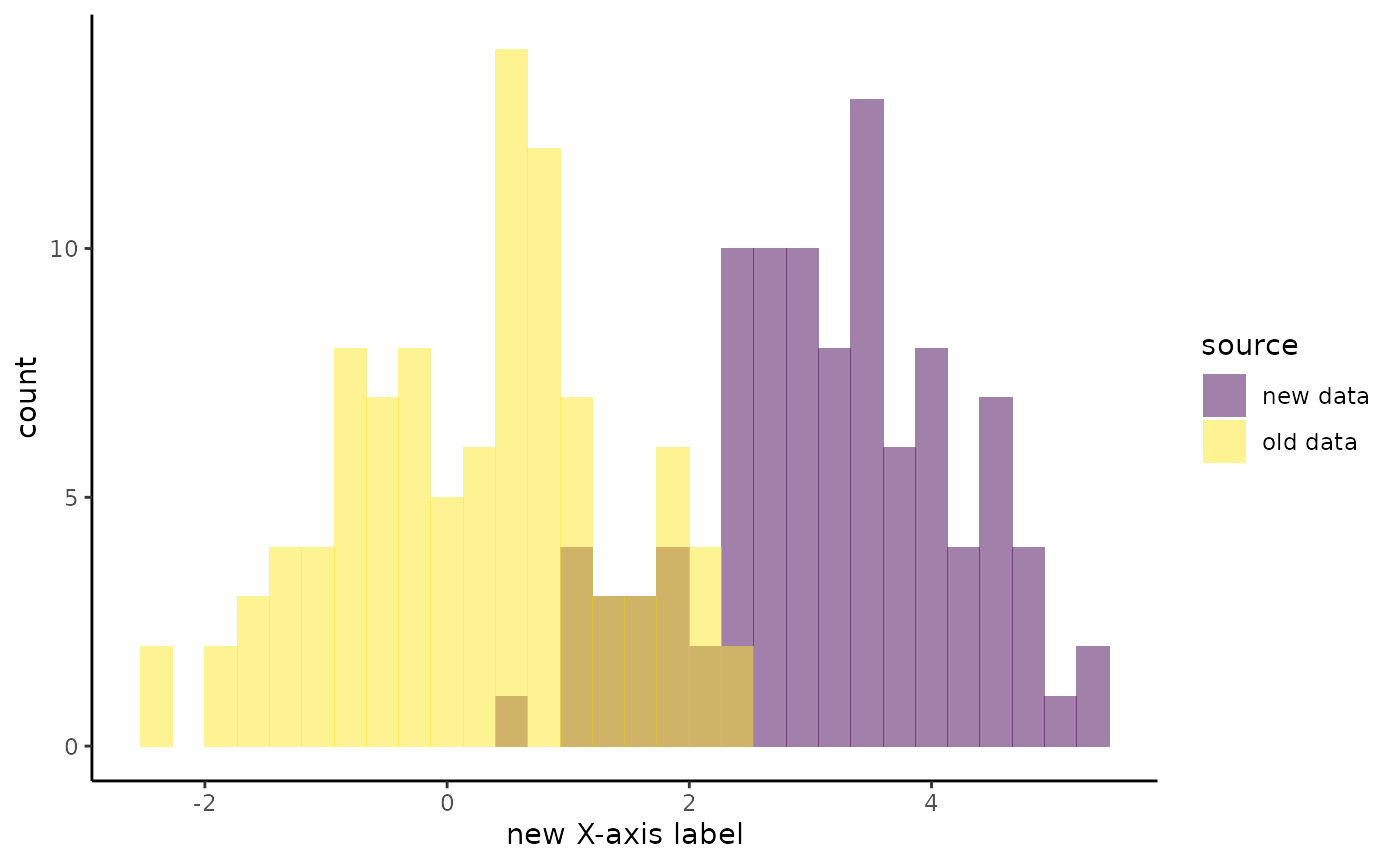
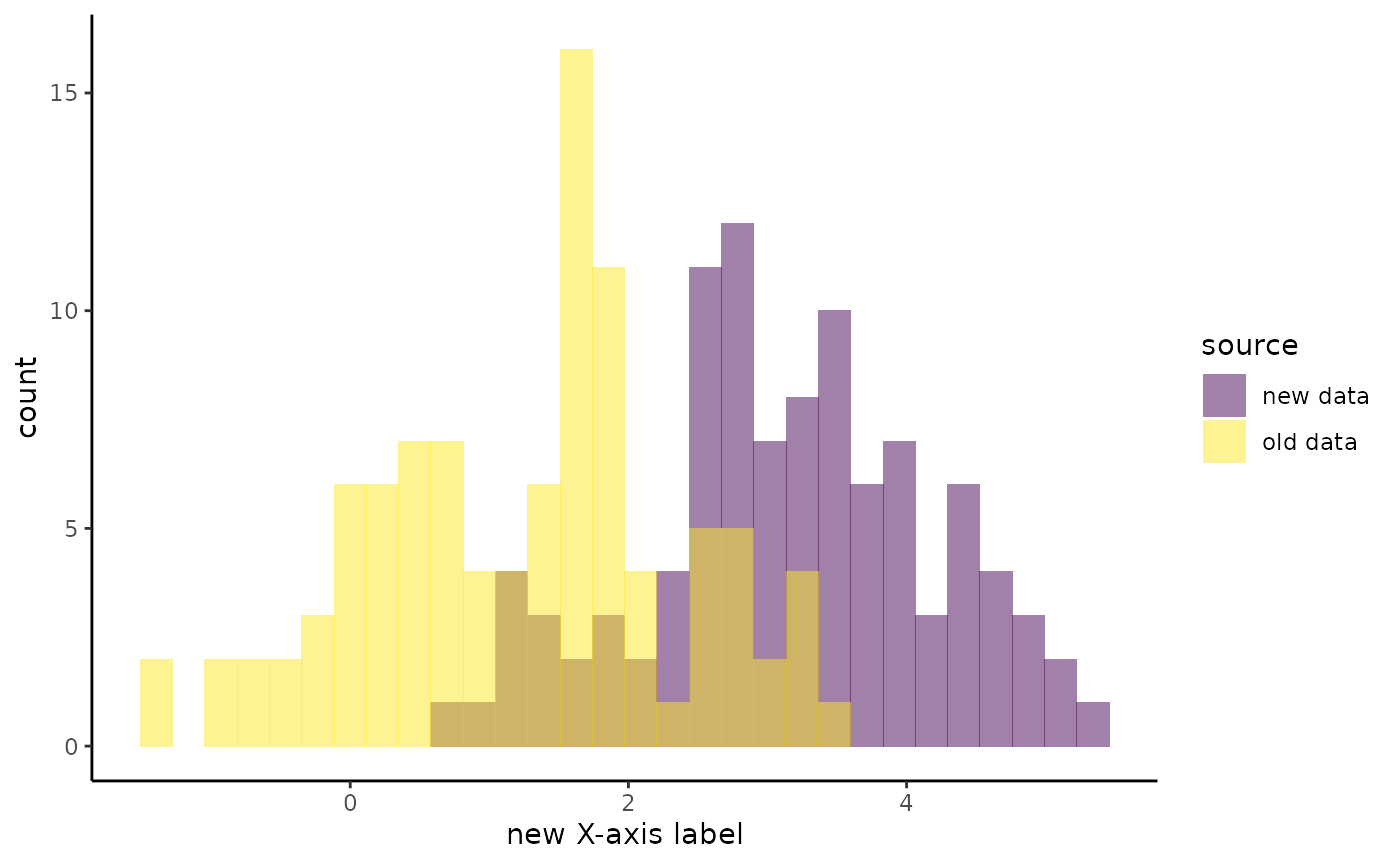
rebuild website

diff --git a/docs/articles/02-building-plots.html b/docs/articles/02-building-plots.html
@@ -86,7 +86,7 @@
     <div class="page-header toc-ignore">
       <h1 data-toc-skip>Creating plots</h1>
             
-            <h4 class="date">2020-11-24</h4>
+            <h4 class="date">2020-11-26</h4>
       
       
       <div class="hidden name"><code>02-building-plots.Rmd</code></div>
@@ -115,7 +115,7 @@
 <span class="fu"><a href="https://rdrr.io/r/utils/str.html">str</a></span><span class="op">(</span><span class="va">my_data</span><span class="op">)</span></pre></div>
 <pre><code>## tibble [200 × 10] (S3: tbl_df/tbl/data.frame)
 ##  $ source: chr [1:200] "old data" "old data" "old data" "old data" ...
-##  $ norm  : num [1:200] 0.586 0.709 -0.109 -0.453 0.606 ...
+##  $ norm  : num [1:200] 1.586 1.709 0.891 0.547 1.606 ...
 ##  $ exp   : num [1:200] 0.1772 0.0858 0.3273 0.5311 2.5615 ...
 ##  $ chisq : num [1:200] 4.53 6.54 4.92 3.55 2.71 ...
 ##  $ lnorm : num [1:200] 1.024 0.619 1.016 4.919 1.054 ...
@@ -185,15 +185,15 @@
 <div class="sourceCode" id="cb3"><pre class="downlit">
 <span class="va">my_histograms</span> <span class="op">&lt;-</span> <span class="fu"><a href="../reference/build_plots.html">build_plots</a></span><span class="op">(</span><span class="va">my_data</span>, <span class="va">flyover_histogram</span>, group_var <span class="op">=</span> <span class="st">"source"</span><span class="op">)</span>
 <span class="va">my_histograms</span></pre></div>
-<pre><code>## # A tibble: 5 x 2
-##   variable plot        
-##   &lt;chr&gt;    &lt;named list&gt;
-## 1 norm     &lt;gg&gt;        
-## 2 exp      &lt;gg&gt;        
-## 3 chisq    &lt;gg&gt;        
-## 4 lnorm    &lt;gg&gt;        
-## 5 gamma    &lt;gg&gt;</code></pre>
-<p>Notice that the output is a tibble containing one plot for each relevant variable (relevant in the sense that they are numeric). The function does not print the plots directly at this stage. However, the individual plots can still be accessed:</p>
+<pre><code>## # A tibble: 5 x 3
+##   variable plot         cogs            
+##   &lt;chr&gt;    &lt;named list&gt; &lt;named list&gt;    
+## 1 norm     &lt;gg&gt;         &lt;tibble [1 × 6]&gt;
+## 2 exp      &lt;gg&gt;         &lt;tibble [1 × 6]&gt;
+## 3 chisq    &lt;gg&gt;         &lt;tibble [1 × 6]&gt;
+## 4 lnorm    &lt;gg&gt;         &lt;tibble [1 × 6]&gt;
+## 5 gamma    &lt;gg&gt;         &lt;tibble [1 × 6]&gt;</code></pre>
+<p>Notice that the output is a tibble having column <code>plot</code> which contains one plot for each numeric variable in the data. (See below for a discussion on the <code>cogs</code> columns.) The function does not print the plots directly at this stage. However, the individual plots can still be accessed:</p>
 <div class="sourceCode" id="cb5"><pre class="downlit">
 <span class="va">my_histograms</span><span class="op">$</span><span class="va">plot</span><span class="op">[[</span><span class="fl">1</span><span class="op">]</span><span class="op">]</span></pre></div>
 <p><img src="02-building-plots_files/figure-html/print-hist-1.png" width="700"></p>
@@ -214,18 +214,41 @@
 <div class="sourceCode" id="cb7"><pre class="downlit">
 <span class="va">my_bars</span> <span class="op">&lt;-</span> <span class="fu"><a href="../reference/build_plots.html">build_plots</a></span><span class="op">(</span><span class="va">my_data</span>, <span class="va">flyover_bar_fill</span>, group_var <span class="op">=</span> <span class="st">"source"</span><span class="op">)</span>
 <span class="va">my_bars</span></pre></div>
-<pre><code>## # A tibble: 4 x 2
-##   variable plot        
-##   &lt;chr&gt;    &lt;named list&gt;
-## 1 alpha    &lt;gg&gt;        
-## 2 hilo     &lt;gg&gt;        
-## 3 tf       &lt;gg&gt;        
-## 4 fruit    &lt;gg&gt;</code></pre>
+<pre><code>## # A tibble: 4 x 3
+##   variable plot         cogs            
+##   &lt;chr&gt;    &lt;named list&gt; &lt;named list&gt;    
+## 1 alpha    &lt;gg&gt;         &lt;tibble [1 × 3]&gt;
+## 2 hilo     &lt;gg&gt;         &lt;tibble [1 × 3]&gt;
+## 3 tf       &lt;gg&gt;         &lt;tibble [1 × 3]&gt;
+## 4 fruit    &lt;gg&gt;         &lt;tibble [1 × 3]&gt;</code></pre>
 <p>As before, you can view individual plots by calling them from this tibble.</p>
 <div class="sourceCode" id="cb9"><pre class="downlit">
 <span class="va">my_bars</span><span class="op">$</span><span class="va">plot</span><span class="op">[[</span><span class="fl">1</span><span class="op">]</span><span class="op">]</span></pre></div>
 <p><img src="02-building-plots_files/figure-html/print-bar-1.png" width="700"></p>
 </div>
+</div>
+<div id="cognostics" class="section level2">
+<h2 class="hasAnchor">
+<a href="#cognostics" class="anchor"></a>Cognostics</h2>
+<p>The tibble returned by <code>build_plots</code> contains a column called <code>cogs</code> which is short for “cognostics”. You can read more about cognostics in the <code>trelliscopejs</code> <a href="https://hafen.github.io/trelliscopejs/articles/trelliscopejs.html">documentation</a>. In short, they are pieces of metadata that are associated with each plot in order to sort and filter plots. They are stored as tibbles, and for numeric plots they look like this:</p>
+<div class="sourceCode" id="cb10"><pre class="downlit">
+<span class="fu"><a href="https://rdrr.io/r/utils/str.html">str</a></span><span class="op">(</span><span class="va">my_histograms</span><span class="op">$</span><span class="va">cogs</span><span class="op">[[</span><span class="fl">1</span><span class="op">]</span><span class="op">]</span><span class="op">)</span></pre></div>
+<pre><code>## tibble [1 × 6] (S3: tbl_df/tbl/data.frame)
+##  $ pct_change_mean   : num 152
+##  $ pct_change_median : num 111
+##  $ pct_change_max    : num 53.9
+##  $ pct_change_min    : num 147
+##  $ pct_change_count  : num 0
+##  $ pct_change_missing: num 0</code></pre>
+<p>These are summaries of features of the data used to generate the first plot. They represent the largest differences (in percentage terms) between any groups for that variable.</p>
+<p>For categorical plots, the cognostics look like this:</p>
+<div class="sourceCode" id="cb12"><pre class="downlit">
+<span class="fu"><a href="https://rdrr.io/r/utils/str.html">str</a></span><span class="op">(</span><span class="va">my_bars</span><span class="op">$</span><span class="va">cogs</span><span class="op">[[</span><span class="fl">1</span><span class="op">]</span><span class="op">]</span><span class="op">)</span></pre></div>
+<pre><code>## tibble [1 × 3] (S3: tbl_df/tbl/data.frame)
+##  $ pct_change_count  : num 0
+##  $ pct_change_missing: num 0
+##  $ n_levels          : int 4</code></pre>
+<p>The next article will clarify how cognostics are used in trelliscope displays.</p>
 </div>
 <div id="using-a-pipe" class="section level2">
 <h2 class="hasAnchor">

diff --git a/docs/articles/03-building-displays.html b/docs/articles/03-building-displays.html
@@ -86,7 +86,7 @@
     <div class="page-header toc-ignore">
       <h1 data-toc-skip>Creating displays</h1>
             
-            <h4 class="date">2020-11-24</h4>
+            <h4 class="date">2020-11-26</h4>
       
       
       <div class="hidden name"><code>03-building-displays.Rmd</code></div>
@@ -115,7 +115,7 @@
 <span class="fu"><a href="https://rdrr.io/r/utils/str.html">str</a></span><span class="op">(</span><span class="va">my_data</span><span class="op">)</span></pre></div>
 <pre><code>## tibble [200 × 10] (S3: tbl_df/tbl/data.frame)
 ##  $ source: chr [1:200] "old data" "old data" "old data" "old data" ...
-##  $ norm  : num [1:200] 0.586 0.709 -0.109 -0.453 0.606 ...
+##  $ norm  : num [1:200] 1.586 1.709 0.891 0.547 1.606 ...
 ##  $ exp   : num [1:200] 0.1772 0.0858 0.3273 0.5311 2.5615 ...
 ##  $ chisq : num [1:200] 4.53 6.54 4.92 3.55 2.71 ...
 ##  $ lnorm : num [1:200] 1.024 0.619 1.016 4.919 1.054 ...
@@ -129,7 +129,7 @@
 <h2 class="hasAnchor">
 <a href="#building-and-using-displays" class="anchor"></a>Building and using displays</h2>
 <p>To build a display, we choose a plotting function and create plotting data as seen in the previous article. Then we pass this data to <code>build_display</code>, give the display a name, and specify a directory for the display output (this is where plots and trelliscope app files live).</p>
-<p>The following code would render a display in an R Mardown document (see the tips below for rendering displays). Notice that the display is interactive, allowing you to page through multiple plots, change the grid size, add and remove metadata labels, filter plots by metadata features, and sort them on the same features. Sorting and filtering the plots is a powerful way to cut out noise and focus on the plots where the most important changes are taking place.</p>
+<p>The following code would render a display in an R Mardown document (see the tips below for rendering displays). Notice that the display is interactive, allowing you to page through multiple plots, change the grid size, add and remove cognostic (metadata) labels, filter plots by cognostics, and sort them on the same features. Sorting and filtering the plots is a powerful way to cut out noise and focus on the plots where the most important changes are taking place. For example, if you were interested in the variables demonstrating the greatest variation in central tendency, you migth sort by <code>pct_change_median</code> descending. (See <code><a href="../reference/build_display.html">?build_display</a></code> for how to set the default sorting cognostic.)</p>
 <div class="sourceCode" id="cb3"><pre class="downlit">
 <span class="va">my_hist</span> <span class="op">&lt;-</span> <span class="fu"><a href="../reference/build_plots.html">build_plots</a></span><span class="op">(</span><span class="va">my_data</span>, <span class="va">flyover_histogram</span>, group_var <span class="op">=</span> <span class="st">"source"</span><span class="op">)</span>
 <span class="fu"><a href="../reference/build_display.html">build_display</a></span><span class="op">(</span><span class="va">my_hist</span>,

diff --git a/docs/articles/04-custom-plots.html b/docs/articles/04-custom-plots.html
@@ -86,7 +86,7 @@
     <div class="page-header toc-ignore">
       <h1 data-toc-skip>Using custom plots</h1>
             
-            <h4 class="date">2020-11-24</h4>
+            <h4 class="date">2020-11-26</h4>
       
       
       <div class="hidden name"><code>04-custom-plots.Rmd</code></div>
@@ -114,7 +114,7 @@
 <span class="fu"><a href="https://rdrr.io/r/utils/str.html">str</a></span><span class="op">(</span><span class="va">my_data</span><span class="op">)</span></pre></div>
 <pre><code>## tibble [200 × 10] (S3: tbl_df/tbl/data.frame)
 ##  $ source: chr [1:200] "old data" "old data" "old data" "old data" ...
-##  $ norm  : num [1:200] 0.586 0.709 -0.109 -0.453 0.606 ...
+##  $ norm  : num [1:200] 1.586 1.709 0.891 0.547 1.606 ...
 ##  $ exp   : num [1:200] 0.1772 0.0858 0.3273 0.5311 2.5615 ...
 ##  $ chisq : num [1:200] 4.53 6.54 4.92 3.55 2.71 ...
 ##  $ lnorm : num [1:200] 1.024 0.619 1.016 4.919 1.054 ...
@@ -133,7 +133,7 @@
 ##     ggplot(tbl, aes_string(x = var, fill = group_var)) + geom_histogram(position = "identity", 
 ##         alpha = 0.5, ...) + theme_minimal(base_size = 14)
 ## }
-## &lt;bytecode: 0x55c4e4585be0&gt;
+## &lt;bytecode: 0x55cf1314b7b8&gt;
 ## &lt;environment: namespace:flyover&gt;</code></pre>
 <p>Important features to note are the following:</p>
 <ul>

diff --git a/docs/articles/05-gallery.html b/docs/articles/05-gallery.html
@@ -86,7 +86,7 @@
     <div class="page-header toc-ignore">
       <h1 data-toc-skip>Gallery</h1>
             
-            <h4 class="date">2020-11-24</h4>
+            <h4 class="date">2020-11-26</h4>
       
       
       <div class="hidden name"><code>05-gallery.Rmd</code></div>
@@ -109,7 +109,7 @@
 <span class="fu"><a href="https://rdrr.io/r/utils/str.html">str</a></span><span class="op">(</span><span class="va">my_data</span><span class="op">)</span></pre></div>
 <pre><code>## tibble [200 × 10] (S3: tbl_df/tbl/data.frame)
 ##  $ source: chr [1:200] "old data" "old data" "old data" "old data" ...
-##  $ norm  : num [1:200] 0.586 0.709 -0.109 -0.453 0.606 ...
+##  $ norm  : num [1:200] 1.586 1.709 0.891 0.547 1.606 ...
 ##  $ exp   : num [1:200] 0.1772 0.0858 0.3273 0.5311 2.5615 ...
 ##  $ chisq : num [1:200] 4.53 6.54 4.92 3.55 2.71 ...
 ##  $ lnorm : num [1:200] 1.024 0.619 1.016 4.919 1.054 ...

diff --git a/docs/articles/display-binline-ridges/index.html b/docs/articles/display-binline-ridges/index.html
@@ -10,6 +10,6 @@
 </head>
 <body>
 <div id="htmlwidget-3e9c1c237f7e49557e92" style="width:100%;height:100%;" class="trelliscopejs_widget html-widget"></div>
-<script type="application/json" data-for="htmlwidget-3e9c1c237f7e49557e92">{"x":{"id":"be851c87","config_info":"'appfiles/config.jsonp'","self_contained":false,"latest_display":{"name":"flyover_binline_ridges","group":"common"},"spa":true,"in_knitr":false,"in_shiny":false,"in_notebook":false},"evals":[],"jsHooks":[]}</script>
+<script type="application/json" data-for="htmlwidget-3e9c1c237f7e49557e92">{"x":{"id":"8edec8f5","config_info":"'appfiles/config.jsonp'","self_contained":false,"latest_display":{"name":"flyover_binline_ridges","group":"common"},"spa":true,"in_knitr":false,"in_shiny":false,"in_notebook":false},"evals":[],"jsHooks":[]}</script>
 </body>
 </html>

diff --git a/docs/articles/display-density-ridges/index.html b/docs/articles/display-density-ridges/index.html
@@ -10,6 +10,6 @@
 </head>
 <body>
 <div id="htmlwidget-d7bc93a36211fb8e4bab" style="width:100%;height:100%;" class="trelliscopejs_widget html-widget"></div>
-<script type="application/json" data-for="htmlwidget-d7bc93a36211fb8e4bab">{"x":{"id":"043abd0d","config_info":"'appfiles/config.jsonp'","self_contained":false,"latest_display":{"name":"flyover_density_ridges","group":"common"},"spa":true,"in_knitr":false,"in_shiny":false,"in_notebook":false},"evals":[],"jsHooks":[]}</script>
+<script type="application/json" data-for="htmlwidget-d7bc93a36211fb8e4bab">{"x":{"id":"a546ede9","config_info":"'appfiles/config.jsonp'","self_contained":false,"latest_display":{"name":"flyover_density_ridges","group":"common"},"spa":true,"in_knitr":false,"in_shiny":false,"in_notebook":false},"evals":[],"jsHooks":[]}</script>
 </body>
 </html>

diff --git a/docs/articles/display-bar-dodge/index.html b/docs/articles/display-bar-dodge/index.html
@@ -10,6 +10,6 @@
 </head>
 <body>
 <div id="htmlwidget-f7c4d487c58bc418bea1" style="width:100%;height:100%;" class="trelliscopejs_widget html-widget"></div>
-<script type="application/json" data-for="htmlwidget-f7c4d487c58bc418bea1">{"x":{"id":"21605607","config_info":"'appfiles/config.jsonp'","self_contained":false,"latest_display":{"name":"flyover_bar_dodge","group":"common"},"spa":true,"in_knitr":false,"in_shiny":false,"in_notebook":false},"evals":[],"jsHooks":[]}</script>
+<script type="application/json" data-for="htmlwidget-f7c4d487c58bc418bea1">{"x":{"id":"8ba358b2","config_info":"'appfiles/config.jsonp'","self_contained":false,"latest_display":{"name":"flyover_bar_dodge","group":"common"},"spa":true,"in_knitr":false,"in_shiny":false,"in_notebook":false},"evals":[],"jsHooks":[]}</script>
 </body>
 </html>

diff --git a/docs/articles/display-histogram/index.html b/docs/articles/display-histogram/index.html
@@ -10,6 +10,6 @@
 </head>
 <body>
 <div id="htmlwidget-8ac8ee8610c212a2faf9" style="width:100%;height:100%;" class="trelliscopejs_widget html-widget"></div>
-<script type="application/json" data-for="htmlwidget-8ac8ee8610c212a2faf9">{"x":{"id":"7bd14528","config_info":"'appfiles/config.jsonp'","self_contained":false,"latest_display":{"name":"flyover_histogram","group":"common"},"spa":true,"in_knitr":false,"in_shiny":false,"in_notebook":false},"evals":[],"jsHooks":[]}</script>
+<script type="application/json" data-for="htmlwidget-8ac8ee8610c212a2faf9">{"x":{"id":"2e32fd66","config_info":"'appfiles/config.jsonp'","self_contained":false,"latest_display":{"name":"flyover_histogram","group":"common"},"spa":true,"in_knitr":false,"in_shiny":false,"in_notebook":false},"evals":[],"jsHooks":[]}</script>
 </body>
 </html>

diff --git a/docs/articles/display-bar-fill/index.html b/docs/articles/display-bar-fill/index.html
@@ -10,6 +10,6 @@
 </head>
 <body>
 <div id="htmlwidget-2003270fadd926fdfb24" style="width:100%;height:100%;" class="trelliscopejs_widget html-widget"></div>
-<script type="application/json" data-for="htmlwidget-2003270fadd926fdfb24">{"x":{"id":"9ca33272","config_info":"'appfiles/config.jsonp'","self_contained":false,"latest_display":{"name":"flyover_bar_fill","group":"common"},"spa":true,"in_knitr":false,"in_shiny":false,"in_notebook":false},"evals":[],"jsHooks":[]}</script>
+<script type="application/json" data-for="htmlwidget-2003270fadd926fdfb24">{"x":{"id":"e0f77dab","config_info":"'appfiles/config.jsonp'","self_contained":false,"latest_display":{"name":"flyover_bar_fill","group":"common"},"spa":true,"in_knitr":false,"in_shiny":false,"in_notebook":false},"evals":[],"jsHooks":[]}</script>
 </body>
 </html>

diff --git a/docs/articles/display-density/index.html b/docs/articles/display-density/index.html
@@ -10,6 +10,6 @@
 </head>
 <body>
 <div id="htmlwidget-08dbb7c2e740d0e6fa64" style="width:100%;height:100%;" class="trelliscopejs_widget html-widget"></div>
-<script type="application/json" data-for="htmlwidget-08dbb7c2e740d0e6fa64">{"x":{"id":"b0cd5161","config_info":"'appfiles/config.jsonp'","self_contained":false,"latest_display":{"name":"flyover_density","group":"common"},"spa":true,"in_knitr":false,"in_shiny":false,"in_notebook":false},"evals":[],"jsHooks":[]}</script>
+<script type="application/json" data-for="htmlwidget-08dbb7c2e740d0e6fa64">{"x":{"id":"6ac3ae73","config_info":"'appfiles/config.jsonp'","self_contained":false,"latest_display":{"name":"flyover_density","group":"common"},"spa":true,"in_knitr":false,"in_shiny":false,"in_notebook":false},"evals":[],"jsHooks":[]}</script>
 </body>
 </html>

diff --git a/docs/articles/display-ecdf/index.html b/docs/articles/display-ecdf/index.html
@@ -10,6 +10,6 @@
 </head>
 <body>
 <div id="htmlwidget-b4510240708ff5341455" style="width:100%;height:100%;" class="trelliscopejs_widget html-widget"></div>
-<script type="application/json" data-for="htmlwidget-b4510240708ff5341455">{"x":{"id":"a36b8737","config_info":"'appfiles/config.jsonp'","self_contained":false,"latest_display":{"name":"custom_ECDF","group":"common"},"spa":true,"in_knitr":false,"in_shiny":false,"in_notebook":false},"evals":[],"jsHooks":[]}</script>
+<script type="application/json" data-for="htmlwidget-b4510240708ff5341455">{"x":{"id":"86139249","config_info":"'appfiles/config.jsonp'","self_contained":false,"latest_display":{"name":"custom_ECDF","group":"common"},"spa":true,"in_knitr":false,"in_shiny":false,"in_notebook":false},"evals":[],"jsHooks":[]}</script>
 </body>
 </html>

diff --git a/docs/articles/display-binline-fruit/index.html b/docs/articles/display-binline-fruit/index.html
@@ -10,6 +10,6 @@
 </head>
 <body>
 <div id="htmlwidget-a42df853740e17e5407f" style="width:100%;height:100%;" class="trelliscopejs_widget html-widget"></div>
-<script type="application/json" data-for="htmlwidget-a42df853740e17e5407f">{"x":{"id":"2b28c30b","config_info":"'appfiles/config.jsonp'","self_contained":false,"latest_display":{"name":"binline","group":"common"},"spa":true,"in_knitr":false,"in_shiny":false,"in_notebook":false},"evals":[],"jsHooks":[]}</script>
+<script type="application/json" data-for="htmlwidget-a42df853740e17e5407f">{"x":{"id":"7dd0392b","config_info":"'appfiles/config.jsonp'","self_contained":false,"latest_display":{"name":"binline","group":"common"},"spa":true,"in_knitr":false,"in_shiny":false,"in_notebook":false},"evals":[],"jsHooks":[]}</script>
 </body>
 </html>
